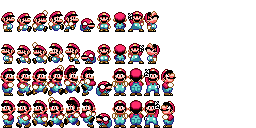
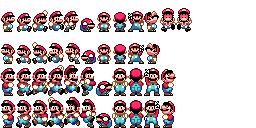
Added basic death for player

Changed region(s): [[0.625, 0.0625, 0.75, 0.25]]

diff --git a/SuperMarioWorld/SuperMarioWorld/SuperMarioWorld/Player.cs b/SuperMarioWorld/SuperMarioWorld/SuperMarioWorld/Player.cs
@@ -46,7 +46,8 @@ namespace SuperMarioWorld
             jumping,
             falling,
             lookup,
-            running
+            running,
+            Dead
         }
 
         //Higher value -> less controll in the air
@@ -118,59 +119,65 @@ namespace SuperMarioWorld
         public override void Update(GameTime gameTime)
         {
             _input.Update();
-            //If the button D is pressed
-            if (_input.IsPressed(Keys.D) || _input.GamePadIsPressed(PlayerIndex.One, Buttons.DPadRight))
+            if (!death)
             {
-                lookRight = true;
-                if(grounded)
-                    momentum.X += acceleration * (float)gameTime.ElapsedGameTime.TotalMilliseconds / 1000.0f;
-                else
-                    momentum.X += acceleration / 3 * (float)gameTime.ElapsedGameTime.TotalMilliseconds / 1000.0f;
-            }
-            //If button A is pressed
-            if (_input.IsPressed(Keys.A) || _input.GamePadIsPressed(PlayerIndex.One, Buttons.DPadLeft))
-            {
-                lookRight = false;
-                if (grounded)
-                    momentum.X -= acceleration * (float)gameTime.ElapsedGameTime.TotalMilliseconds / 1000.0f;
-                else
-                    momentum.X -= acceleration / _airControl * (float)gameTime.ElapsedGameTime.TotalMilliseconds / 1000.0f;
-            }
-            if((_input.OnPress(Keys.Space) || _input.GamePadOnPress(PlayerIndex.One, Buttons.A)) && grounded)
-            {
-                momentum.Y = -140;
-                grounded = false;
-            }
+                //If the button D is pressed
+                if (_input.IsPressed(Keys.D) || _input.GamePadIsPressed(PlayerIndex.One, Buttons.DPadRight))
+                {
+                    lookRight = true;
+                    if (grounded)
+                        momentum.X += acceleration * (float)gameTime.ElapsedGameTime.TotalMilliseconds / 1000.0f;
+                    else
+                        momentum.X += acceleration / 3 * (float)gameTime.ElapsedGameTime.TotalMilliseconds / 1000.0f;
+                }
+                //If button A is pressed
+                if (_input.IsPressed(Keys.A) || _input.GamePadIsPressed(PlayerIndex.One, Buttons.DPadLeft))
+                {
+                    lookRight = false;
+                    if (grounded)
+                        momentum.X -= acceleration * (float)gameTime.ElapsedGameTime.TotalMilliseconds / 1000.0f;
+                    else
+                        momentum.X -= acceleration / _airControl * (float)gameTime.ElapsedGameTime.TotalMilliseconds / 1000.0f;
+                }
+                if ((_input.OnPress(Keys.Space) || _input.GamePadOnPress(PlayerIndex.One, Buttons.A)) && grounded)
+                {
+                    momentum.Y = -140;
+                    grounded = false;
+                }
 
-            //Handle animations
-            //if player is moving
-            sprite.animationSpeed = 150.0f;
-            if(Math.Abs(momentum.X) > 0.5f && grounded)
-            {
-                sprite.animationSpeed = -3 * Math.Abs(momentum.X) + 300;
-                SetAnimation(PlayerAnimationState.walking);
+                //Handle animations
+                //if player is moving
+                sprite.animationSpeed = 150.0f;
+                if (Math.Abs(momentum.X) > 0.5f && grounded)
+                {
+                    sprite.animationSpeed = -3 * Math.Abs(momentum.X) + 300;
+                    SetAnimation(PlayerAnimationState.walking);
+                }
+                //if up is pressed, and not moving
+                else if (Keyboard.GetState().IsKeyDown(Keys.W) && Math.Abs(momentum.X) < 0.5f && grounded)
+                {
+                    SetAnimation(PlayerAnimationState.lookup);
+                }
+                //if player is falling
+                else if (grounded == false && momentum.Y > 0.5f)
+                {
+                    SetAnimation(PlayerAnimationState.falling);
+                }
+                //If player is jumping
+                else if (grounded == false && momentum.Y < 0.5f)
+                {
+                    SetAnimation(PlayerAnimationState.jumping);
+                }
+                //player is doing nothing
+                else
+                {
+                    SetAnimation(PlayerAnimationState.idle);
+                }
             }
-            //if up is pressed, and not moving
-            else if(Keyboard.GetState().IsKeyDown(Keys.W) && Math.Abs(momentum.X) < 0.5f && grounded)
-            {
-                SetAnimation(PlayerAnimationState.lookup);
-            }
-            //if player is falling
-            else if(grounded == false && momentum.Y > 0.5f)
-            {
-                SetAnimation(PlayerAnimationState.falling);
-            }
-            //If player is jumping
-            else if(grounded == false && momentum.Y < 0.5f)
-            {
-                SetAnimation(PlayerAnimationState.jumping);
-            }
-            //player is doing nothing
             else
             {
-                SetAnimation(PlayerAnimationState.idle);
+                SetAnimation(PlayerAnimationState.Dead);
             }
-
             //Calculate player movement
             Movement(gameTime);
             grounded = false;
@@ -210,6 +217,10 @@ namespace SuperMarioWorld
                 //small mario look up
                 case PlayerAnimationState.lookup:
                     sprite.AddFrame(9, 0);
+                    break;
+                case PlayerAnimationState.Dead:
+                    sprite.AddFrame(10, 0);
+                    sprite.AddFrame(11, 0);
                     break;
             }
             _animationState = animation;

diff --git a/SuperMarioWorld/SuperMarioWorld/SuperMarioWorld/Level.cs b/SuperMarioWorld/SuperMarioWorld/SuperMarioWorld/Level.cs
@@ -294,6 +294,13 @@ namespace SuperMarioWorld
             //Cycle through every GameObject in _collidables
             for(int i  = 0; i < _collidables.Count; i++)
             {
+                if (_collidables[i] is Entity)
+                {
+                    Entity e = (Entity)_collidables[i];
+                    if (e.death)
+                        continue;
+                }
+
                 for (int j = i + 1; j < _collidables.Count; j++)
                 {
                     //Check if two objects collide

diff --git a/SuperMarioWorld/SuperMarioWorld/SuperMarioWorld/Object.cs b/SuperMarioWorld/SuperMarioWorld/SuperMarioWorld/Object.cs
@@ -44,7 +44,7 @@ namespace SuperMarioWorld
                         if (p.momentum.Y > 0)
                         {
                             //When entity collides from the top
-                            p.position.Y = position.Y - boundingBox.Height / 2 - p.boundingBox.Height / 2;
+                            p.position.Y = position.Y - boundingBox.Height + 1;
                             p.momentum.Y = 16;
                             p.grounded = true;
                             p.momentum.Y = 0;

diff --git a/SuperMarioWorld/SuperMarioWorld/SuperMarioWorld/Enemy.cs b/SuperMarioWorld/SuperMarioWorld/SuperMarioWorld/Enemy.cs
@@ -32,7 +32,13 @@ namespace SuperMarioWorld
             if(collider is Player)
             {
                 Player p = (Player)collider;
-                p.momentum.Y = -110;
+                if (p.momentum.Y > 0)
+                    p.momentum.Y = -110;
+                else
+                {
+                    p.death = true;
+                    p.momentum.X = 0;
+                }
             }
         }
 

diff --git a/SuperMarioWorld/SuperMarioWorld/SuperMarioWorld/Entity.cs b/SuperMarioWorld/SuperMarioWorld/SuperMarioWorld/Entity.cs
@@ -17,6 +17,8 @@ namespace SuperMarioWorld
 
         protected float acceleration = 16f;
 
+        public bool death;
+
         protected float maxSpeed;
         protected float thermalVelocity;
 
